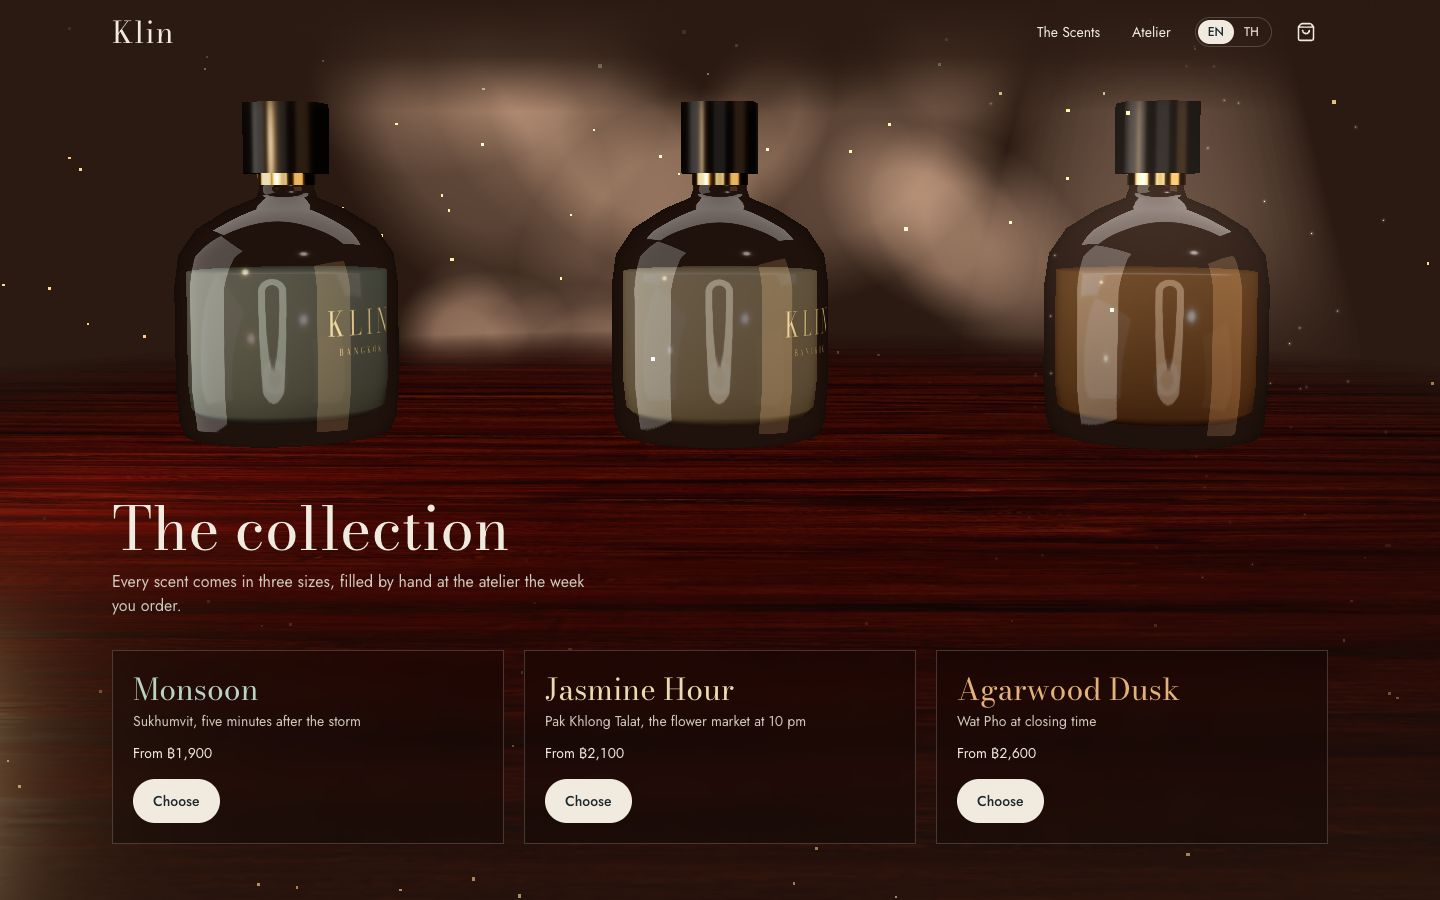
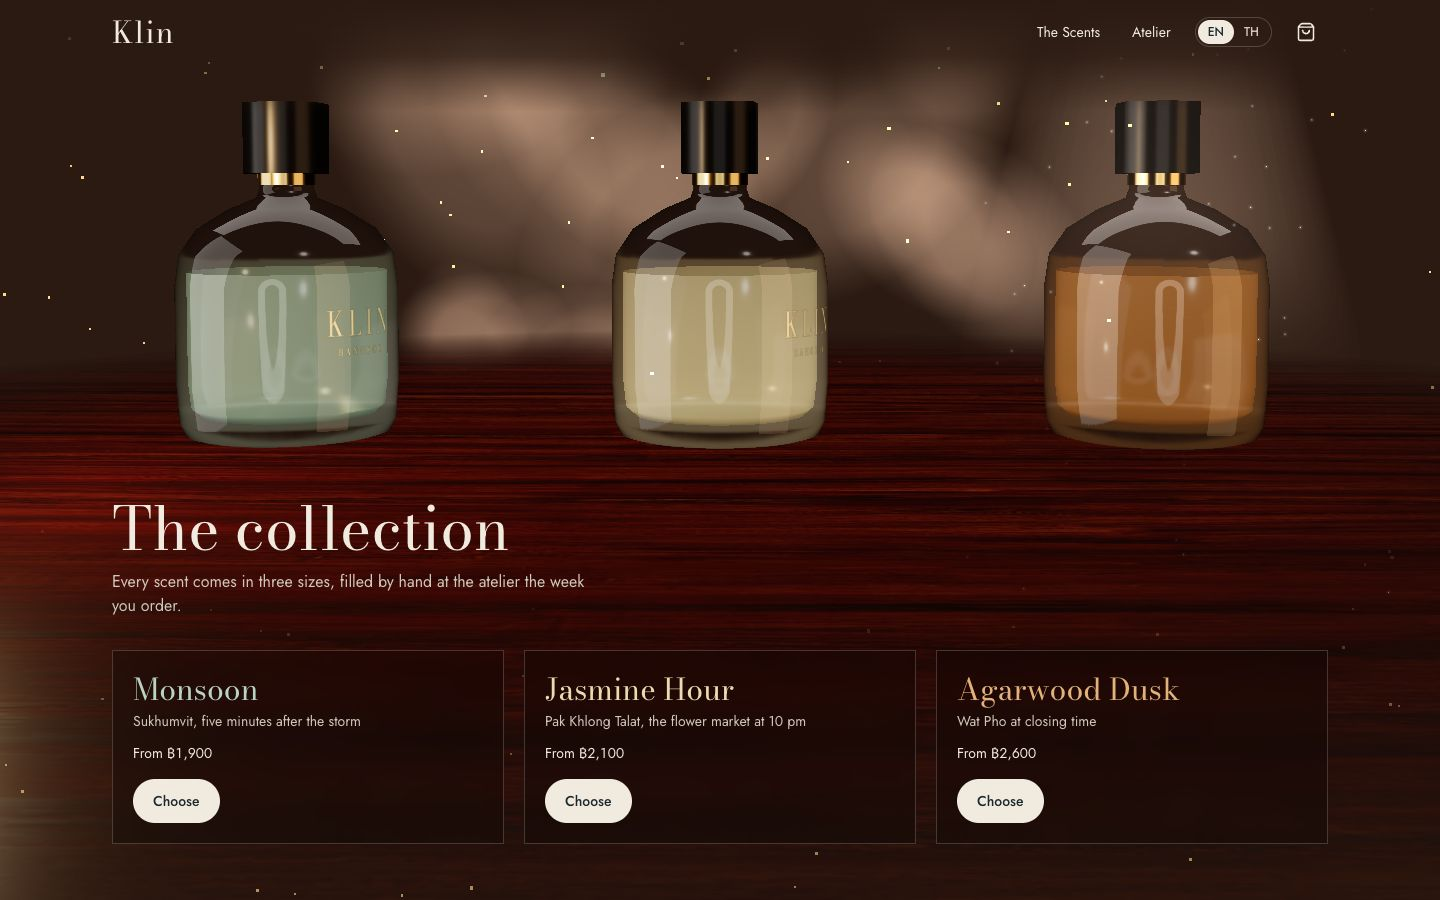
Throw light through Klin's bottles onto the floor
A shifting caustic in the juice's colour now plays on the floor beside
the bottle on Monsoon's stone and Agarwood's wood, faintly on Jasmine's
lacquer, drawn in a small shader. The portal's Klin screens are
refreshed to match.

Changed region(s): [[0.4062, 0.28, 0.5938, 0.4978], [0.7188, 0.28, 0.9062, 0.4978], [0.125, 0.28, 0.2812, 0.4978]]

diff --git a/src/features/klin/components/scene.tsx b/src/features/klin/components/scene.tsx
@@ -14,6 +14,7 @@ import { valueNoise } from "../lib/noise"
 import { bulbStrings } from "../lib/bulbs"
 import { grainFor, stir } from "../lib/speed"
 import { NOTE_MS, noteEnvelope, type NoteEffect } from "../lib/notes"
+import { causticStrength } from "../lib/caustics"
 import { coastBoard, type BottleSlot, type SpinBoard } from "../lib/spin"
 import { CAMERA_SHOTS, cameraShot, isSoftwareRenderer, lightning, mixHex, lineupFraming, nearestTurn, nextTier, pickedLensShift, stalling, type CameraShot, type SceneState, type Tier } from "../lib/story"
 
@@ -430,6 +431,7 @@ function Story({
         <Suspense fallback={null}>
           <Floors state={state} still={still} rich={rich} motion={motion} onReady={onReady} />
         </Suspense>
+        <Caustics state={state} still={still} />
       </group>
       <Rain state={state} still={still} motion={motion} />
       <Mist state={state} still={still} />
@@ -441,6 +443,87 @@ function Story({
     </>
   )
 }
+
+const CAUSTIC_SHADER = {
+  vertexShader: /* glsl */ `
+    varying vec2 vUv;
+    void main() {
+      vUv = uv;
+      gl_Position = projectionMatrix * modelViewMatrix * vec4(position, 1.0);
+    }
+  `,
+  // The well-known iterated water caustic (after joltz0r and Dave Hoskins): light bending through
+  // the glass and juice gathers into bright, slowly shifting threads
+  fragmentShader: /* glsl */ `
+    uniform float uTime;
+    uniform float uStrength;
+    uniform vec3 uColour;
+    varying vec2 vUv;
+    float caustic(vec2 p, float t) {
+      vec2 i = p;
+      float c = 1.0;
+      float inten = 0.005;
+      for (int n = 0; n < 4; n++) {
+        float tt = t * (1.0 - (3.5 / float(n + 1)));
+        i = p + vec2(cos(tt - i.x) + sin(tt + i.y), sin(tt - i.y) + cos(tt + i.x));
+        c += 1.0 / length(vec2(p.x / (sin(i.x + tt) / inten), p.y / (cos(i.y + tt) / inten)));
+      }
+      c /= 4.0;
+      c = 1.17 - pow(c, 1.4);
+      return pow(abs(c), 6.0);
+    }
+    void main() {
+      // Wider than deep: seen low across the floor, the cells foreshorten back to round
+      vec2 p = vUv * vec2(5.0, 2.6) - 250.0;
+      float light = caustic(p, uTime * 0.35);
+      // A soft patch, brightest near the bottle and fading away from it
+      vec2 c = (vUv - vec2(0.62, 0.5)) / vec2(0.55, 0.5);
+      float pool = smoothstep(1.0, 0.25, length(c));
+      gl_FragColor = vec4(uColour * min(light, 1.4) * pool * uStrength, 1.0);
+    }
+  `,
+}
+
+/**
+ * Light thrown through the glass and juice onto the floor beside the bottle,
+ * in the juice's colour: a moving caustic drawn in a shader (cheap, unlike a
+ * raymarched one), behind and to the left, away from the key light. Only on
+ * a floor (causticStrength); held still on still frames.
+ */
+function Caustics({ state, still }: { state: RefObject<SceneState>; still: boolean }) {
+  const mesh = useRef<THREE.Mesh>(null)
+  const material = useMemo(
+    () =>
+      new THREE.ShaderMaterial({
+        ...CAUSTIC_SHADER,
+        uniforms: { uTime: { value: 3 }, uStrength: { value: 0 }, uColour: { value: new THREE.Color() } },
+        transparent: true,
+        depthWrite: false,
+        blending: THREE.AdditiveBlending,
+      }),
+    [],
+  )
+  useFrame(({ clock }) => {
+    const s = state.current
+    if (s) castCaustics(mesh.current, material, causticStrength(s), s.liquid, still ? 3 : clock.elapsedTime + 3)
+  })
+  return (
+    <mesh ref={mesh} material={material} rotation-x={-Math.PI / 2} position={[-0.95, 0.006, -0.1]} renderOrder={2} visible={false}>
+      <planeGeometry args={[2.8, 2]} />
+    </mesh>
+  )
+}
+
+function castCaustics(mesh: THREE.Mesh | null, material: THREE.ShaderMaterial, strength: number, liquid: string, time: number) {
+  if (!mesh) return
+  mesh.visible = strength > 0.01
+  if (!mesh.visible) return
+  material.uniforms.uStrength.value = strength * 1.1
+  material.uniforms.uColour.value.set(liquid).lerp(WHITE, 0.15)
+  material.uniforms.uTime.value = time
+}
+
+const WHITE = new THREE.Color("#ffffff")
 
 const LEAVES = 7
 

diff --git a/tests/unit/klin-caustics.test.ts b/tests/unit/klin-caustics.test.ts
@@ -1,0 +1,24 @@
+import { describe, expect, it } from "vitest"
+import { causticStrength } from "@/features/klin/lib/caustics"
+import { sceneAt } from "@/features/klin/lib/story"
+
+describe("causticStrength", () => {
+  it("throws light on each chapter's floor: full on stone and wood, faint on black lacquer", () => {
+    expect(causticStrength(sceneAt({ hero: 1, chapter: 0, lineup: 0 }))).toBeCloseTo(1)
+    expect(causticStrength(sceneAt({ hero: 1, chapter: 2, lineup: 0 }))).toBeCloseTo(1)
+    const lacquer = causticStrength(sceneAt({ hero: 1, chapter: 1, lineup: 0 }))
+    expect(lacquer).toBeGreaterThan(0.2)
+    expect(lacquer).toBeLessThan(0.6)
+  })
+
+  it("throws none while the bottle floats in the storm or once the three line up", () => {
+    expect(causticStrength(sceneAt({ hero: 0, chapter: 0, lineup: 0 }))).toBe(0)
+    expect(causticStrength(sceneAt({ hero: 1, chapter: 2, lineup: 1 }))).toBe(0)
+  })
+
+  it("fades in as the hero gives way to the first floor", () => {
+    const partway = causticStrength(sceneAt({ hero: 0.6, chapter: 0, lineup: 0 }))
+    expect(partway).toBeGreaterThan(0)
+    expect(partway).toBeLessThan(1)
+  })
+})

diff --git a/src/features/klin/lib/caustics.ts b/src/features/klin/lib/caustics.ts
@@ -1,0 +1,14 @@
+import type { SceneState } from "./story"
+
+/** How much light each floor shows: black lacquer is nearly unseen, so light on it would seem to float. */
+const LACQUER = 0.45
+
+/**
+ * How bright the light thrown through the glass onto the floor is (0–1): only
+ * when the bottle stands on a floor (stone and wood fully, black lacquer
+ * faintly), not while it floats in the storm or once the three line up.
+ */
+export function causticStrength(s: Pick<SceneState, "stone" | "lacquer" | "wood" | "storm" | "lineup">): number {
+  const floor = Math.min(1, s.stone + s.lacquer * LACQUER + s.wood)
+  return Math.max(0, Math.min(1, floor * (1 - s.storm) * (1 - s.lineup)))
+}

diff --git a/ROADMAP.md b/ROADMAP.md
@@ -87,7 +87,9 @@ Asked for on 2026-11-01: a showcase that goes big on visual effects, 3D and scro
 - [x] Found while building it: the sheen's first mask, an oval taller than the bottle, spilled a soft green blob onto the floor below the base; it now keeps to the body, base to shoulder
 - [x] Research 2026-11-01 (80.lv "Simulating liquids in a bottle with a shader", Minions Art's liquid wobble, Three.js Journey's wobbly sphere): the juice sloshes. It's turned taller than it stands and cut off in the shader at a surface through the fill level that tilts on a light damped spring (about 1.2 swings a second, settling in a few), its inner walls seen through the cut shaded as the surface. Each bottle feels its own turning and resizing every frame (from its world matrix, nothing to wire), so a drag-spin, its coast, a change of size and even the small turn toward the mouse rock the juice; the lean is capped so it never climbs out of the shoulders. The flacons only ever turn upright, so the surface is worked out in the bottle's own space; nothing moves on still frames
 - [x] Found while building it: the first push (a twentieth of the turn's acceleration) leaned the surface by about 0.02, invisible; a brisk flick gains several radians a second in a few frames, so the push is ten times stronger, which leans it about 0.15 (a unit test holds a flick to a visible lean that settles)
-- [ ] Research 2026-11-01 (drei Caustics, after N8python's caustics; Maxime Heckel's caustics in WebGL): swirls of light through the glass onto the floor under the bottle. drei's version raymarches, so only in the full look and drawn once per chapter rather than every frame, or faked with a moving caustic texture projected under the bottle in its juice's colour
+- [x] Research 2026-11-01 (drei Caustics, after N8python's caustics; Maxime Heckel's caustics in WebGL): light thrown through the glass and juice onto the floor beside the bottle, in the juice's colour. drei's version raymarches, too dear for this scene's governor, so it's the well-known iterated water caustic in a small shader on a floor patch behind and left of the bottle (away from the key light), its cells stretched wide so they read round when seen low across the floor, slowly shifting (held still on still frames). It shows on Monsoon's stone and Agarwood's wood, faintly on Jasmine's black lacquer (where light seems to float on the near-invisible floor), never in the storm or the line-up
+- [x] Found while building it: the first caustic shader never drew: a variable named `patch` is a reserved word in GLSL ES 3.0 (from tessellation), so the program failed to compile; e2e's console check catches such failures, and the variable is `pool` now
+- [ ] Research 2026-11-01 (Codrops' "cinematic 3D scroll experiences with GSAP", Framer's MorphField): between the last chapter and the collection, the bottle breaks into a cloud of drops that drift and gather into the three bottles of the line-up, a particle morph run by the scroll, so the jump from one bottle to three reads as one continuous move
 - [ ] More from award-winning 3D sites (asked for 2026-11-01: make every section as different and spectacular as possible, keep researching): a preloader where the bottle fills as assets load; hero title letters that split and fall like rain on scroll (GSAP SplitText); Jasmine with strings of market bulbs glowing out of focus; drag to spin a bottle in the collection, with hover lifting it into the beam; scroll-speed blur/distortion on the canvas; a custom cursor that becomes a droplet over the bottle; magnetic buttons; an optional rain soundscape toggle (off by default)
 - [ ] Share cards (`og-cards.tsx`, layout `openGraph.images`), and a quick Lighthouse check of the page (the 3D layer is code-split and loads after the text)
 - [ ] A bag drawer with checkout (test-mode card, PromptPay to 0000000000) and an order confirmation
